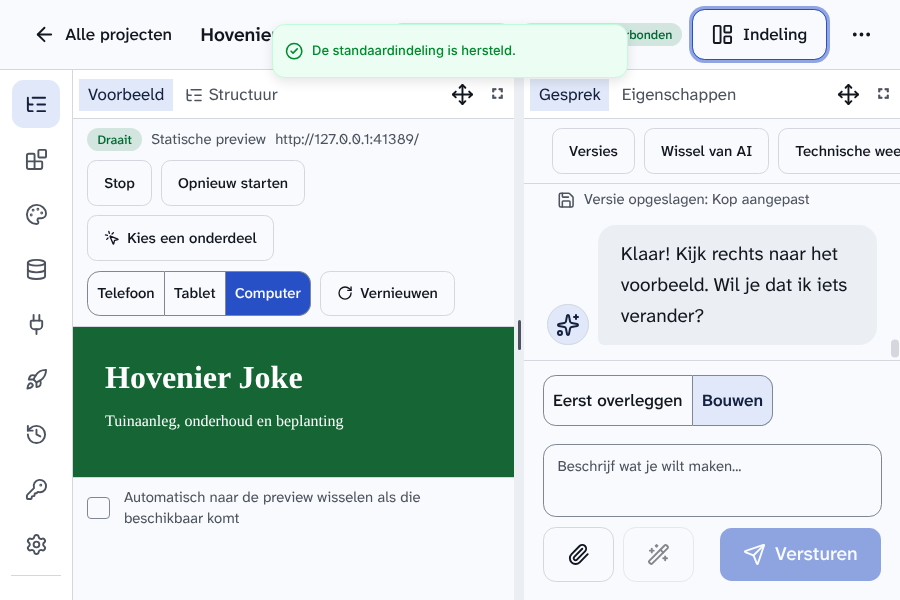
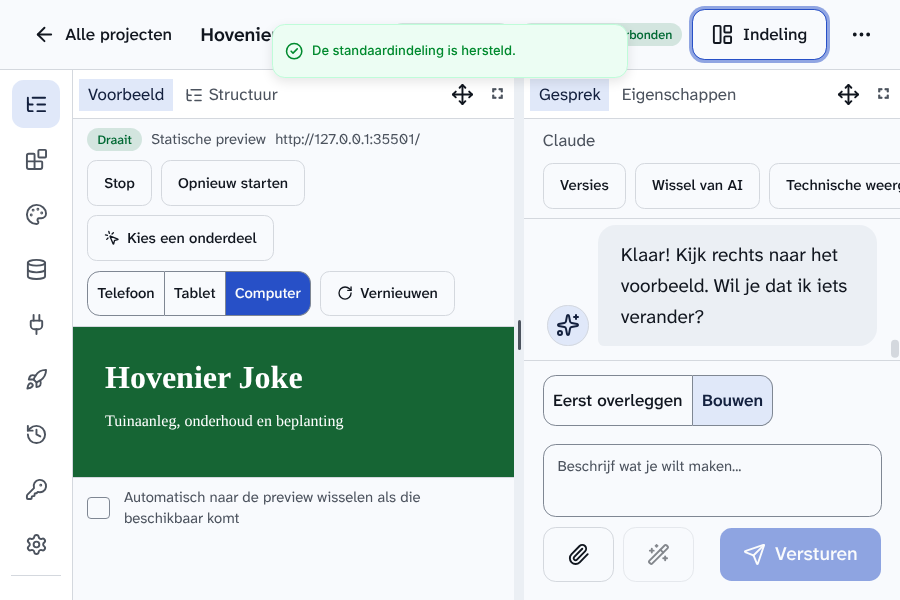
Indeling stap 7b: kopbalken van gesprek en terminal slaan om in smalle panelen; basisscreenshots bijgewerkt
Claude-Session: https://claude.ai/code/session_01EQqqEgtdBb6TXts6tMLwZj

Changed region(s): [[0.5911, 0.21, 1.0, 0.36], [0.6844, 0.39, 0.9333, 0.54], [0.4044, 0.21, 0.4667, 0.24]]

diff --git a/src/components/TerminalPanel.tsx b/src/components/TerminalPanel.tsx
@@ -157,7 +157,7 @@ export default function TerminalPanel({ project, accounts, sessions, mcp, onSess
         <Button size="sm" variant="outline" onClick={() => setSwitching(true)} disabled={!activeAi}>
           {t("terminal.wissel")}
         </Button>
-        <div className="ml-auto flex items-center gap-3 text-sm">
+        <div className="ml-auto flex flex-wrap items-center gap-x-3 gap-y-1 text-sm">
           <Badge variant="secondary" data-testid="account-badge">
             {activeAi ? t("terminal.actiefAccount", { naam: accountName }) : t("terminal.geenAi")}
           </Badge>

diff --git a/src/components/app/chat/ChatPanel.tsx b/src/components/app/chat/ChatPanel.tsx
@@ -302,7 +302,7 @@ export default function ChatPanel({
           {t("chat.bijlage.sleep")}
         </div>
       )}
-      <header className="flex items-center justify-between gap-2 border-b border-border px-4 py-2">
+      <header className="flex flex-wrap items-center justify-between gap-2 border-b border-border px-4 py-2">
         <h2 className="min-w-0 truncate text-base text-muted-foreground">
           <span className="sr-only">{t("chat.titel")} </span>
           {target && (
